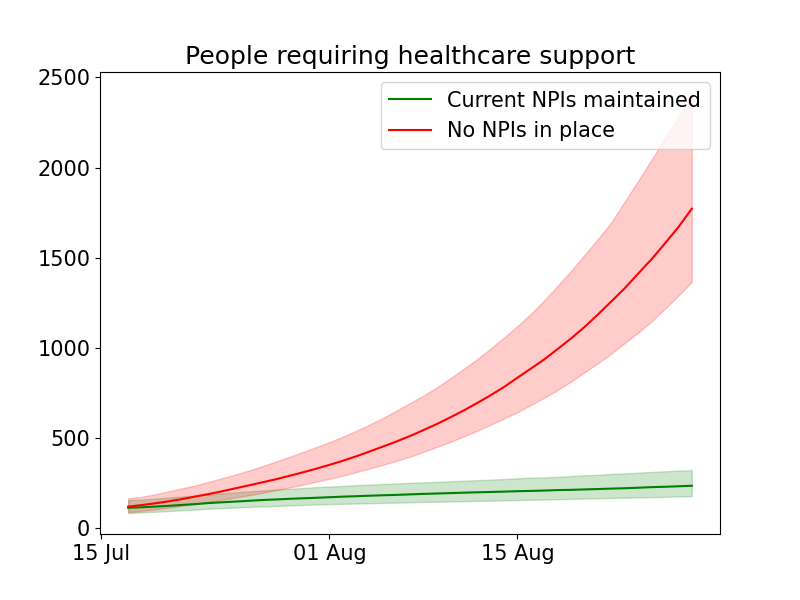
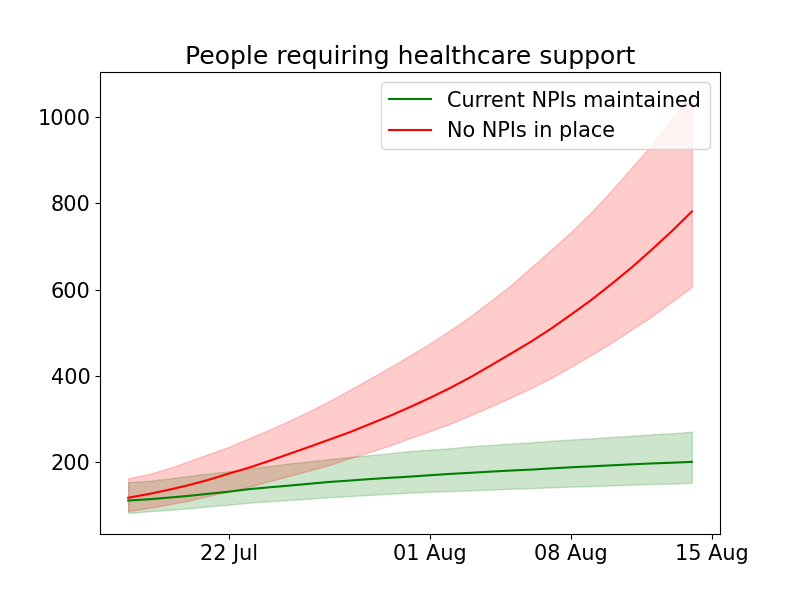
adding Reff calculation

diff --git a/generate_charts_report.py b/generate_charts_report.py
@@ -1,4 +1,3 @@
-from matplotlib.pyplot import title
 import utils
 import os
 import argparse
@@ -7,7 +6,9 @@ import matplotlib.pyplot as plt
 import matplotlib.dates as mdates
 import requests
 import geopandas as gpd
-from datetime import datetime,timedelta, date
+from datetime import datetime,timedelta
+from scipy.optimize import curve_fit
+import numpy as np
 
 from utils import set_matlotlib
 
@@ -16,7 +17,6 @@ ASSESSMENT_DATE='2020-07-17'
 TODAY = datetime.strptime(ASSESSMENT_DATE, '%Y-%m-%d').date()
 FOUR_WEEKS = TODAY + timedelta(days=28)
 TWO_WEEKS = TODAY + timedelta(days=14)
-THREE_MONTHS = TODAY + timedelta(days=90)
 LAST_MONTH = TODAY - timedelta(days=30)
 CONFIG_FILE = 'config.yml'
 DIR_PATH = os.path.dirname(os.path.realpath(__file__))
@@ -39,16 +39,17 @@ SUBNATIONAL_DATA_COLOR='navy'
 def main(country_iso3='AFG',download_covid=False):
     parameters = utils.parse_yaml(CONFIG_FILE)[country_iso3]
     if download_covid:
-    # Download latest covid file tiles and read them in
+        # Download latest covid file tiles and read them in
         get_covid_data(WHO_COVID_URL,f'{DIR_PATH}/{WHO_COVID_FILENAME}')
     set_matlotlib(plt)
-
+    print('\n\n\n')
+    print(f'{country_iso3}')
+    extract_reff(country_iso3)
     generate_key_figures(country_iso3)
     generate_current_status(country_iso3,parameters)
     generate_daily_projections(country_iso3,parameters)
     create_maps(country_iso3, parameters)
     calculate_trends(country_iso3, parameters)
-    # plt.show()
 
 def download_url(url, save_path, chunk_size=128):
     r = requests.get(url, stream=True)
@@ -74,6 +75,39 @@ def get_bucky(country_iso3,admin_level,min_date,max_date,npi_filter):
     bucky_npi=bucky_npi.set_index('date')
     return bucky_npi
 
+def extract_reff(country_iso3):
+    bucky_npi=get_bucky(country_iso3,admin_level='adm0',min_date=TODAY,max_date=FOUR_WEEKS,npi_filter='npi')
+    bucky_npi=bucky_npi[bucky_npi['q']==0.5]
+    dt_npi=get_bucky_doubling_time(bucky_npi)
+    dt_npi,r_npi=get_bucky_doubling_time(bucky_npi)
+    print(f'Estimated doubling time NPI {dt_npi}, Reff {r_npi}')
+    
+    bucky_no_npi=get_bucky(country_iso3,admin_level='adm0',min_date=TODAY,max_date=FOUR_WEEKS,npi_filter='no_npi')
+    bucky_no_npi=bucky_no_npi[bucky_no_npi['q']==0.5]
+    dt_no_npi=get_bucky_doubling_time(bucky_no_npi)
+    dt_no_npi,r_no_npi=get_bucky_doubling_time(bucky_no_npi)
+    print(f'Estimated doubling time No NPI {dt_no_npi}, Reff {r_no_npi}')
+    
+
+def get_bucky_doubling_time(df_bucky):
+    # start fit
+    dates_proj = df_bucky.index
+    xfit=[(x-dates_proj[0]).days for x in dates_proj]
+    yfit = df_bucky['cumulative_cases_reported']
+    initial_caseload=yfit[0]
+    initial_parameters=[initial_caseload,0.03]
+    popt, _ = curve_fit(func,xfit,yfit,p0=initial_parameters)
+    # TODO check quality of the fit
+    doubling_time_fit=np.log(2)/popt[1]
+    # https://www.acpjournals.org/doi/10.7326/M20-0504
+    infectious_period=5.2
+    # according to eq 1 in https://www.mdpi.com/2306-7381/7/1/2/htm#B17-vetsci-07-00002
+    reff=1+(np.log(2)/doubling_time_fit)*infectious_period
+    return doubling_time_fit,reff
+
+def func(x, p0, beta):
+    return p0 * np.exp(x*beta)
+
 def generate_key_figures(country_iso3):
 
     who_covid=get_who_covid(country_iso3,min_date=LAST_MONTH,max_date=FOUR_WEEKS)
@@ -94,7 +128,7 @@ def generate_key_figures(country_iso3):
     print(f'Current situation {TODAY}: {who_cases_today:.0f} cases, {who_deaths_today:.0f} deaths')
     print(f'Weekly new cases wrt last week: {trend_w_cases:.0f}% cases, {trend_w_deaths:.0f}% deaths')
 
-    bucky_npi=get_bucky(country_iso3,admin_level='adm0',min_date=TODAY,max_date=THREE_MONTHS,npi_filter='npi')
+    bucky_npi=get_bucky(country_iso3,admin_level='adm0',min_date=TODAY,max_date=FOUR_WEEKS,npi_filter='npi')
     reporting_rate=bucky_npi['CASE_REPORT'].mean()*100
     reff_npi=bucky_npi['Reff'].mean()
     min_cases_npi=bucky_npi[bucky_npi['q']==0.25].loc[FOUR_WEEKS,'cumulative_cases_reported']
@@ -108,28 +142,27 @@ def generate_key_figures(country_iso3):
     print(f'- Projection date:{FOUR_WEEKS}')
     
     print(f'- ESTIMATED CASE REPORTING RATE {reporting_rate:.0f}')
-    print(f'-- NPI: ESTIMATED Reff NPI {reff_npi:.2f}')
+    # print(f'-- NPI: ESTIMATED Reff NPI {reff_npi:.2f}')
     print(f'-- NPI: Projected reported cases in 4w: {min_cases_npi:.0f} - {max_cases_npi:.0f}')
     print(f'-- NPI: Projected trend reported cases in 4w: {rel_inc_min_cases_npi:.0f}% - {rel_inc_max_cases_npi:.0f}%')
     print(f'-- NPI: Projected reported deaths in 4w: {min_deaths_npi:.0f} - {max_deaths_npi:.0f}')
     print(f'-- NPI: Projected trend reported deaths in 4w: {rel_inc_min_deaths_npi:.0f}% - {rel_inc_max_deaths_npi:.0f}%')
     
-    bucky_no_npi=get_bucky(country_iso3,admin_level='adm0',min_date=TODAY,max_date=THREE_MONTHS,npi_filter='no_npi')
+    bucky_no_npi=get_bucky(country_iso3,admin_level='adm0',min_date=TODAY,max_date=FOUR_WEEKS,npi_filter='no_npi')
     reff_no_npi=bucky_no_npi['Reff'].mean()
     min_cases_no_npi=bucky_no_npi[bucky_no_npi['q']==0.25].loc[FOUR_WEEKS,'cumulative_cases_reported']
     max_cases_no_npi=bucky_no_npi[bucky_no_npi['q']==0.75].loc[FOUR_WEEKS,'cumulative_cases_reported']
     min_deaths_no_npi=bucky_no_npi[bucky_no_npi['q']==0.25].loc[FOUR_WEEKS,'cumulative_deaths']
     max_deaths_no_npi=bucky_no_npi[bucky_no_npi['q']==0.75].loc[FOUR_WEEKS,'cumulative_deaths']
-    # print(bucky_no_npi.loc[FOUR_WEEKS,:])
-    print(f'--- no_npi: ESTIMATED Reff no_npi {reff_no_npi:.2f}')
+    # print(f'--- no_npi: ESTIMATED Reff no_npi {reff_no_npi:.2f}')
     print(f'--- no_npi: Projected reported cases in 4w: {min_cases_no_npi:.0f} - {max_cases_no_npi:.0f}')
     print(f'--- no_npi: Projected reported deaths in 4w: {min_deaths_no_npi:.0f} - {max_deaths_no_npi:.0f}')
     
 
 def generate_daily_projections(country_iso3,parameters):
     # generate plot with long term projections of daily cases
-    bucky_npi=get_bucky(country_iso3,admin_level='adm0',min_date=TODAY,max_date=THREE_MONTHS,npi_filter='npi')
-    bucky_no_npi=get_bucky(country_iso3,admin_level='adm0',min_date=TODAY,max_date=THREE_MONTHS,npi_filter='no_npi')
+    bucky_npi=get_bucky(country_iso3,admin_level='adm0',min_date=TODAY,max_date=FOUR_WEEKS,npi_filter='npi')
+    bucky_no_npi=get_bucky(country_iso3,admin_level='adm0',min_date=TODAY,max_date=FOUR_WEEKS,npi_filter='no_npi')
 
     # draw_daily_projections(country_iso3,bucky_npi,bucky_no_npi,parameters,'daily_cases_reported')
     # draw_daily_projections(country_iso3,bucky_npi,bucky_no_npi,parameters,'daily_deaths')
